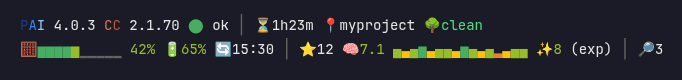
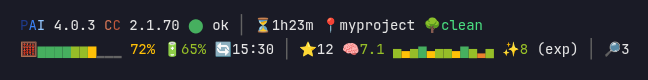
Sparkline last 16 → 12, merge README rows, update screenshot
- Change rating sparkline from last 16 to last 12 ratings
- Merge sparkline into all-time average row in README table
- Merge Context into Usage section in README table
- Update screenshot with 72% context bar and 12-bar sparkline

diff --git a/README.md b/README.md
@@ -18,8 +18,7 @@ Dense 2-line personal statusline for [PAI](https://github.com/danielmiessler/pai
 | | 🔋 | <span style="color:rgb(150,190,40)">65%</span> | 5-hour utilization |
 | | 🔄 | 15:30 | Reset time (local clock) |
 | Learning | ⭐ | 12 | Total ratings count |
-| | 🧠 | <span style="color:rgb(150,190,40)">7.1</span> | All-time average |
-| | | <span style="color:rgb(150,190,40)">▄</span><span style="color:rgb(255,193,7)">▃</span><span style="color:rgb(150,190,40)">▄</span><span style="color:rgb(70,175,95)">▅</span><span style="color:rgb(255,193,7)">▃</span><span style="color:rgb(150,190,40)">▄▄</span><span style="color:rgb(255,193,7)">▃</span><span style="color:rgb(70,175,95)">▅</span><span style="color:rgb(150,190,40)">▄</span><span style="color:rgb(255,193,7)">▃</span><span style="color:rgb(150,190,40)">▄</span><span style="color:rgb(235,130,45)">▂</span><span style="color:rgb(255,193,7)">▃</span><span style="color:rgb(150,190,40)">▄▄</span> | Rating sparkline (last 16) |
+| | 🧠 | <span style="color:rgb(150,190,40)">7.1</span> <span style="color:rgb(150,190,40)">▄</span><span style="color:rgb(255,193,7)">▃</span><span style="color:rgb(150,190,40)">▄</span><span style="color:rgb(70,175,95)">▅</span><span style="color:rgb(255,193,7)">▃</span><span style="color:rgb(150,190,40)">▄▄</span><span style="color:rgb(255,193,7)">▃</span><span style="color:rgb(70,175,95)">▅</span><span style="color:rgb(150,190,40)">▄</span><span style="color:rgb(235,130,45)">▂</span><span style="color:rgb(150,190,40)">▄</span> | All-time average + sparkline (last 12) |
 | | ✨ | <span style="color:rgb(150,190,40)">8</span> (exp) | Latest rating + source |
 | | 🔎 | 3 | Research count |
 
